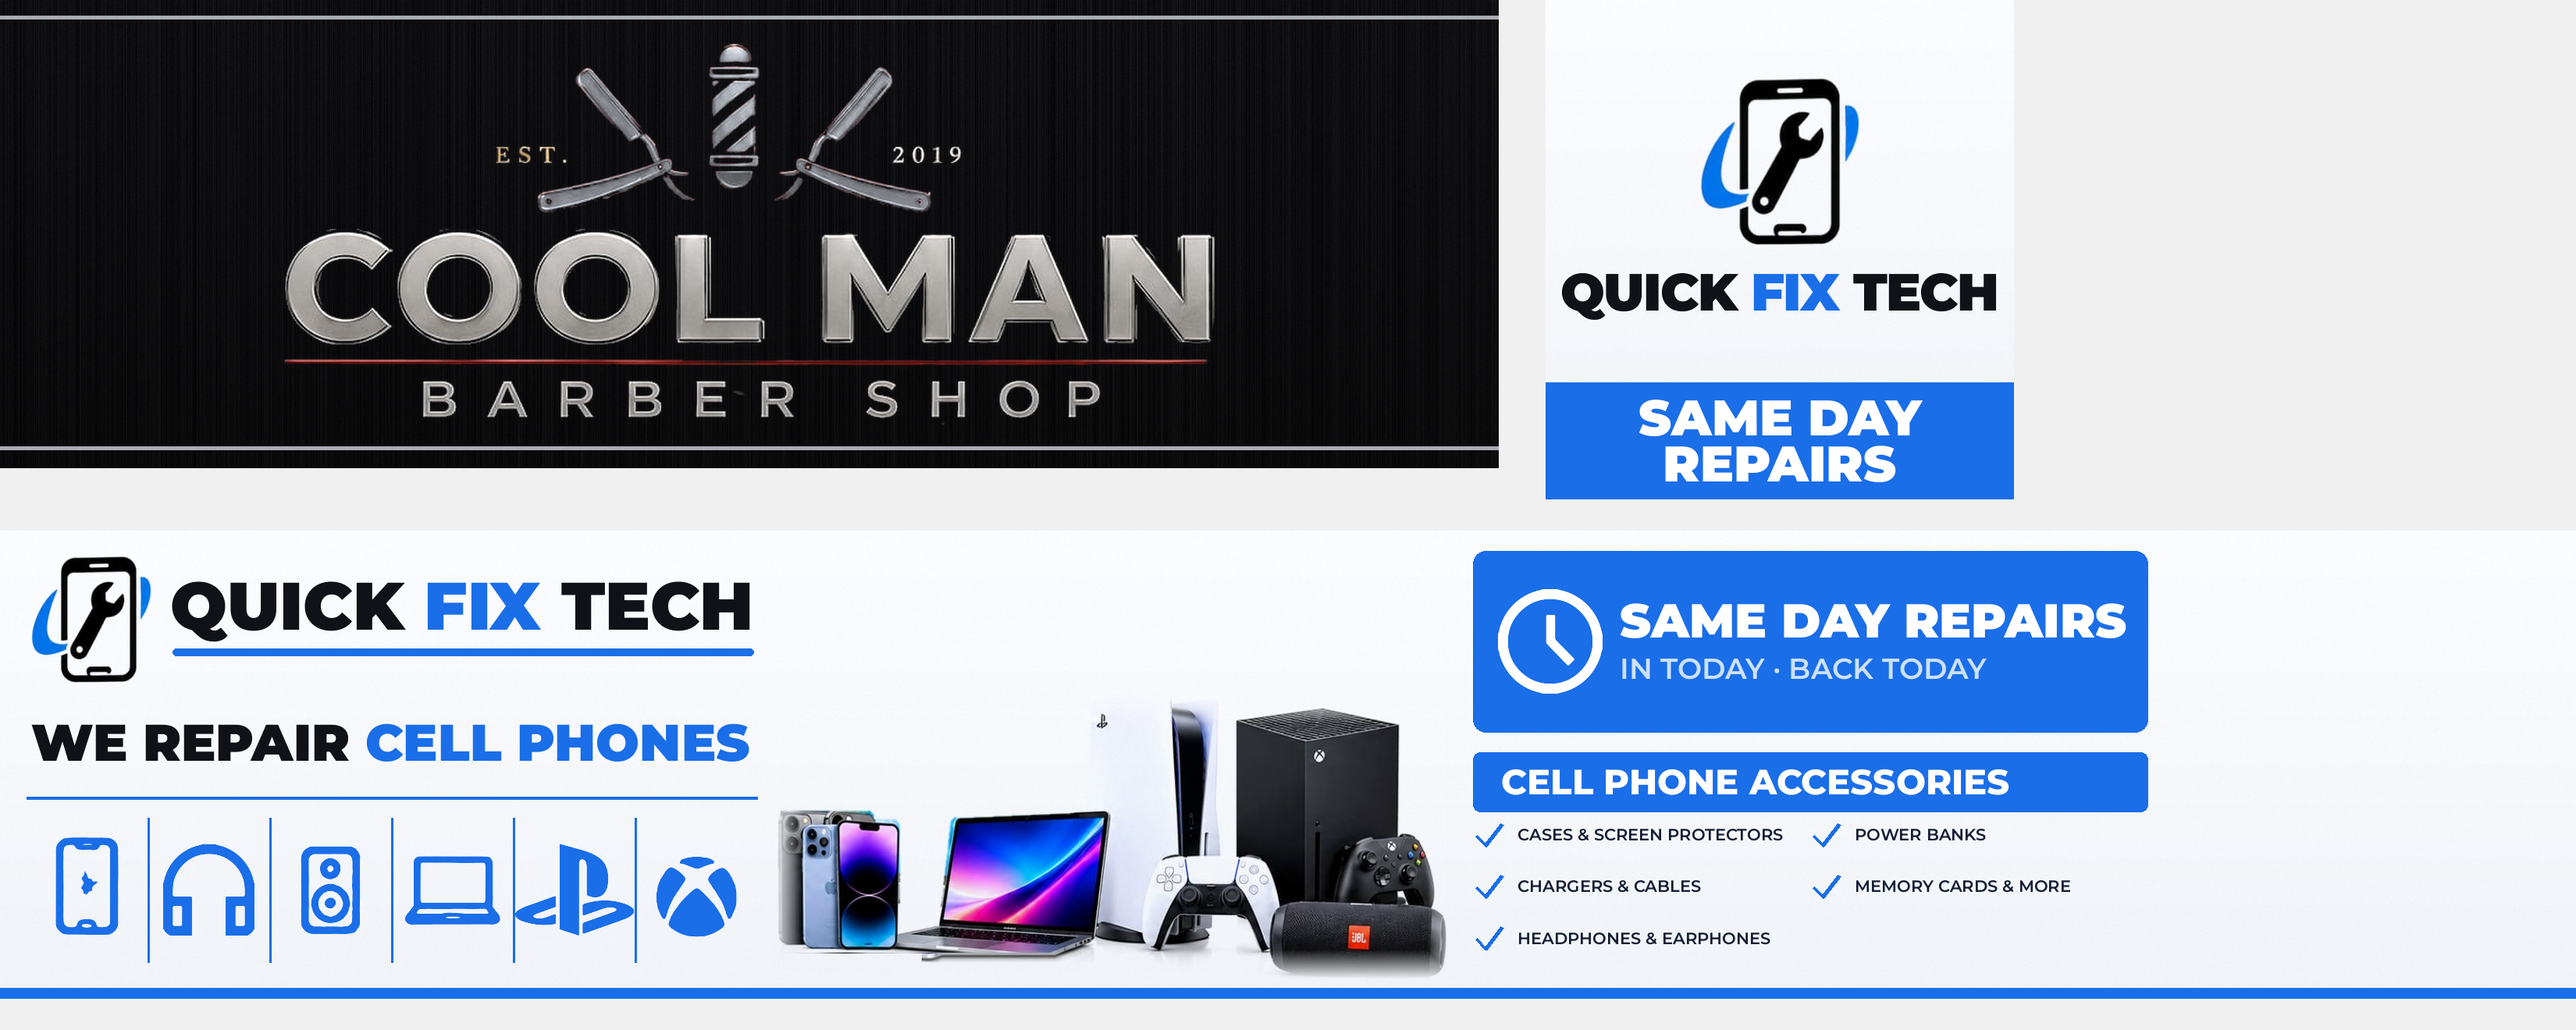
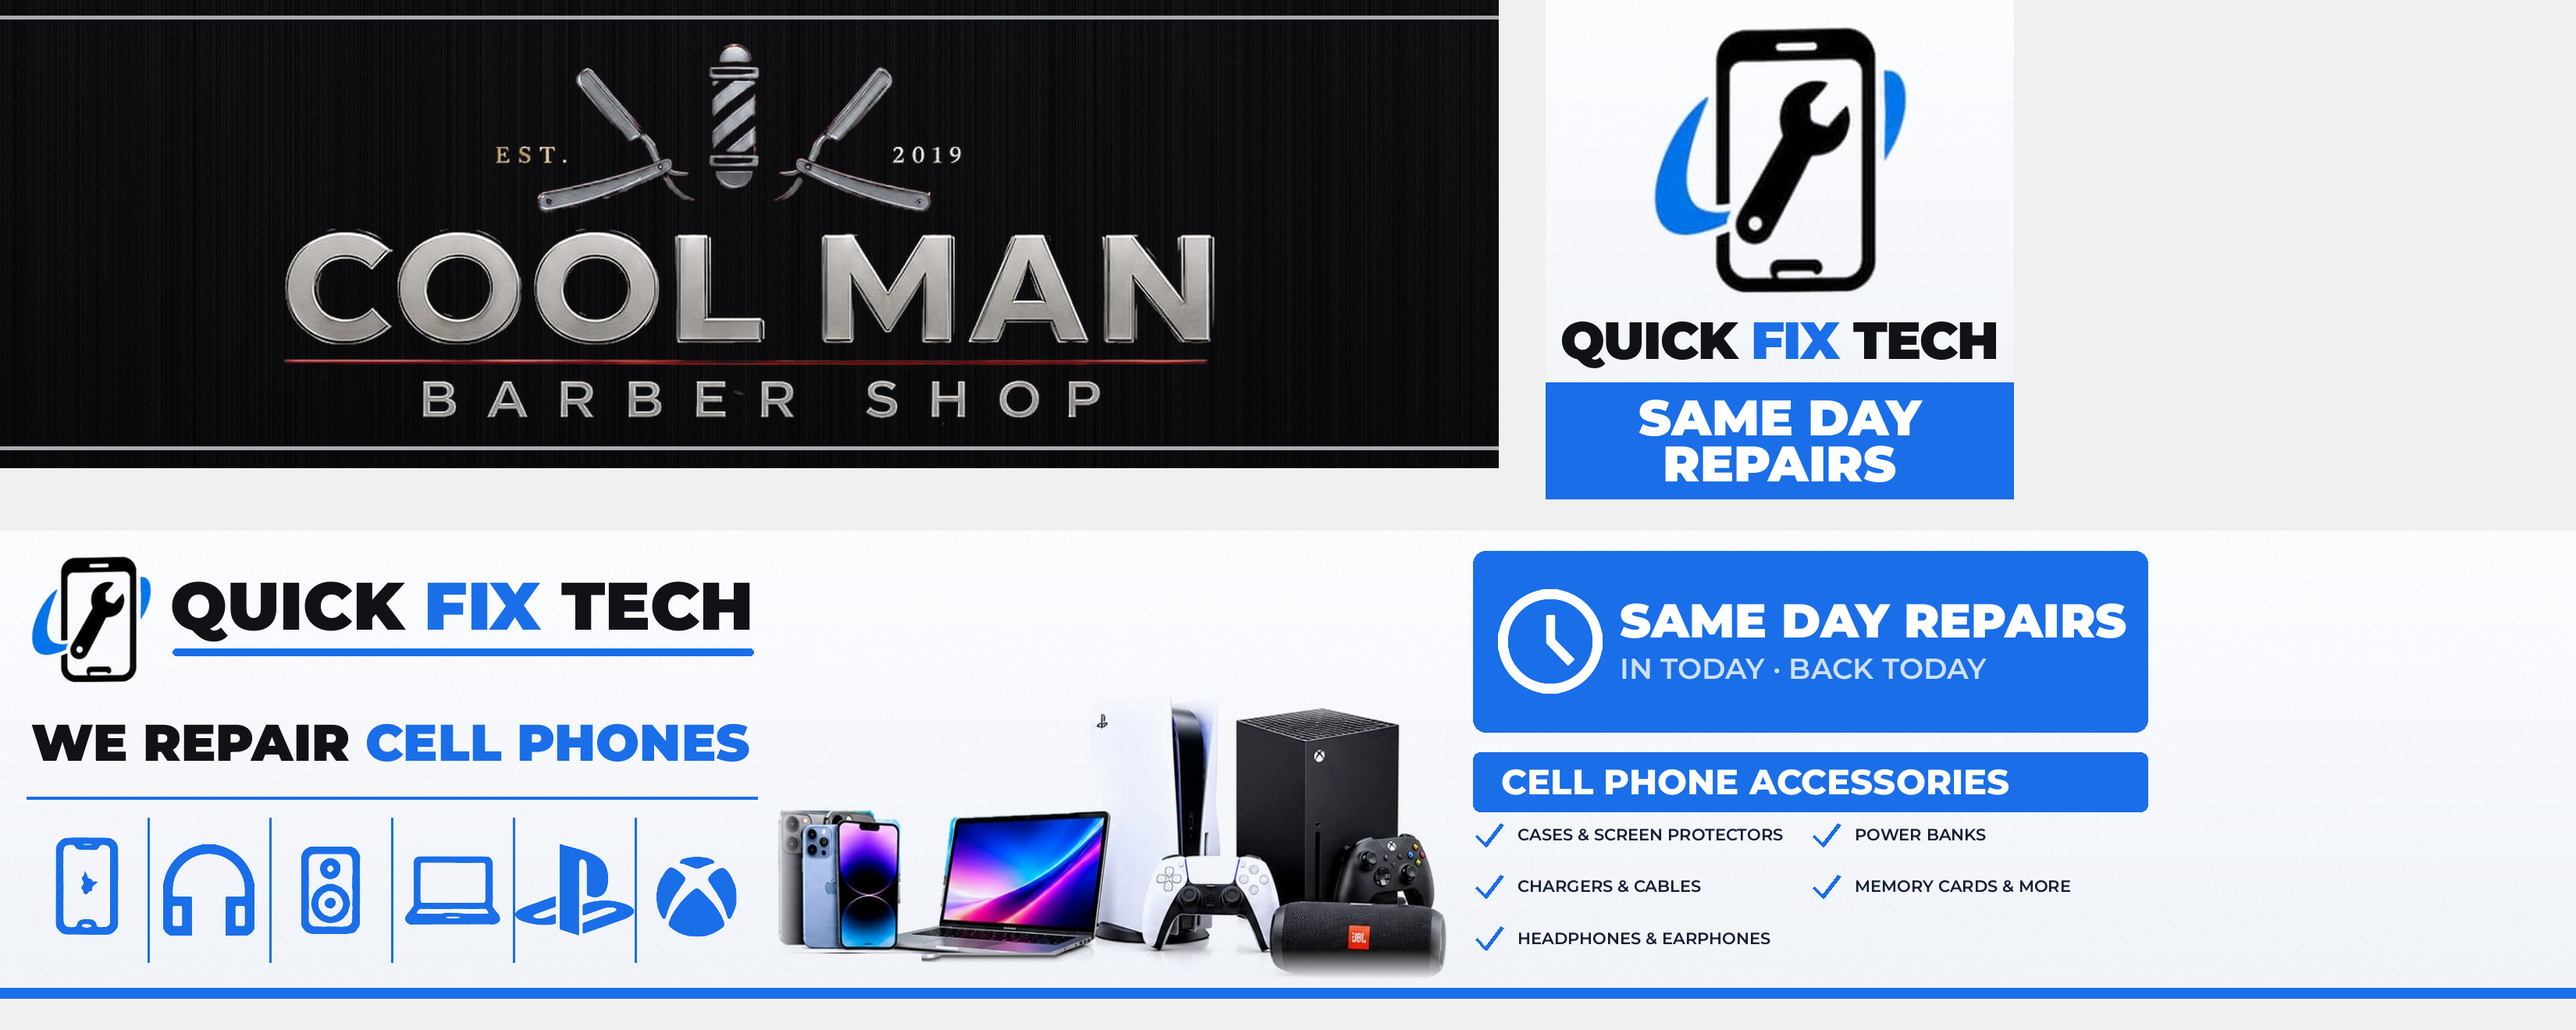
Corner sign: lower brand text, enlarge repair mark
Claude-Session: https://claude.ai/code/session_013KRwQLAxoZ4CUmAfzsxCfh

Changed region(s): [[0.593, 0.0, 0.7803, 0.3727]]

diff --git a/signage-concepts/source/signs_fit.py b/signage-concepts/source/signs_fit.py
@@ -65,11 +65,10 @@ def corner():
     f = qp.mont(lo, 900); cap = f.getbbox("H")[3] - f.getbbox("H")[1]
     tw = line_w(f); x = (w - tw)/2
     rule_gap, rule_h = 0, 0                                      # no underline on the corner sign
-    mk_h = 230; gap = 30
-    block = mk_h + gap + cap + rule_gap + rule_h
-    top = (band_top - block)/2
-    mk = qp.scale_fit(P.mark, w*0.6, mk_h); paste_c(t, mk, (w/2, top + mk_h/2))
-    base = top + mk_h + gap + cap; x0 = x
+    base = band_top - 30                                         # text sits just above the Same Day band
+    mk_top, mk_bot = 20, base - cap - 26
+    mk = qp.scale_fit(P.mark, w*0.8, mk_bot - mk_top); paste_c(t, mk, (w/2, (mk_top + mk_bot)/2))
+    x0 = x
     for word, col in (("QUICK ", qp.INK), ("FIX ", QBLUE), ("TECH", qp.INK)):
         for ch in word:
             d.text((x, base), ch, font=f, fill=col, anchor="ls"); x += d.textlength(ch, font=f) + track*f.size
